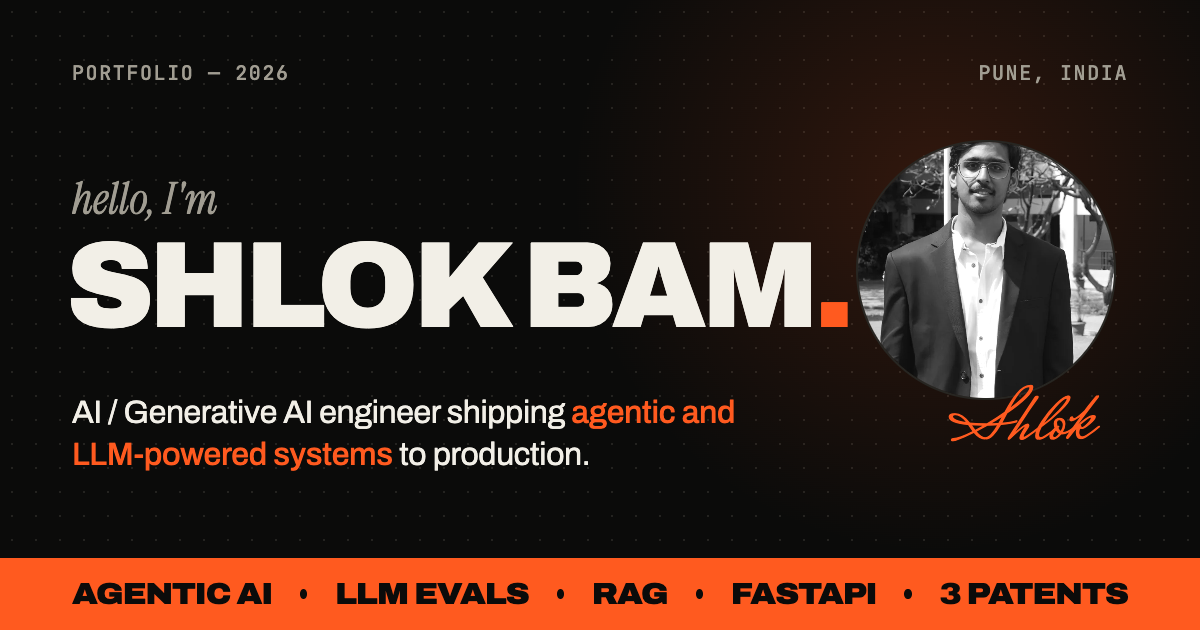
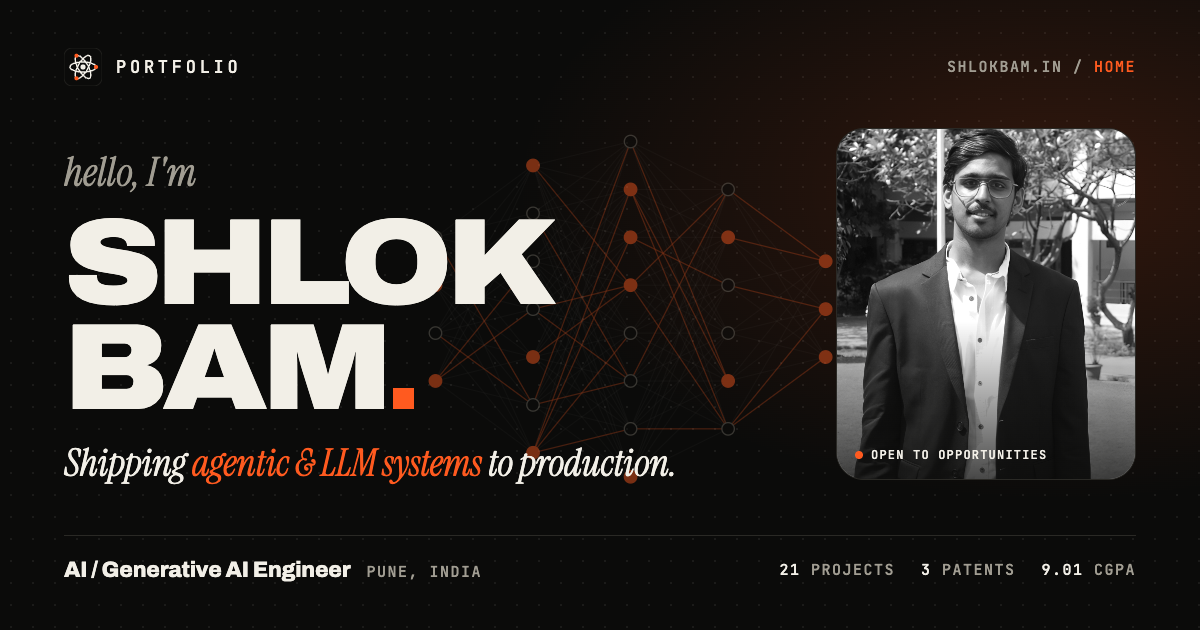
Refactor code structure for improved readability and maintainability

diff --git a/v2/frontend/src/seo.js b/v2/frontend/src/seo.js
@@ -148,7 +148,10 @@ const esc = (s) => String(s).replace(/&/g, '&amp;').replace(/"/g, '&quot;').repl
 export function headTags(pathname, site) {
   const meta = pageMeta(pathname)
   const url = site + (pathname === '/' ? '/' : pathname)
-  const img = site + '/og.png'
+  // each page has its own share card in public/og/ (1200×630)
+  const card = pathname === '/' ? 'home' : pathname.split('/').pop()
+  const img = site + '/og/' + (PAGES[pathname] ? card : 'home') + '.jpg'
+  const alt = pathname === '/' ? 'Shlok Bam — AI / Generative AI Engineer' : (meta.name || 'Shlok Bam') + ' — Shlok Bam, AI / Generative AI Engineer'
   const tags = [
     `<title>${esc(meta.title)}</title>`,
     `<meta name="description" content="${esc(meta.description)}" />`,
@@ -164,9 +167,11 @@ export function headTags(pathname, site) {
       `<meta property="og:title" content="${esc(meta.title)}" />`,
       `<meta property="og:description" content="${esc(meta.description)}" />`,
       `<meta property="og:image" content="${img}" />`,
+      `<meta property="og:image:secure_url" content="${img}" />`,
+      '<meta property="og:image:type" content="image/jpeg" />',
       '<meta property="og:image:width" content="1200" />',
       '<meta property="og:image:height" content="630" />',
-      '<meta property="og:image:alt" content="Shlok Bam — AI / Generative AI Engineer" />',
+      `<meta property="og:image:alt" content="${esc(alt)}" />`,
       ...(pathname === '/' ? ['<meta property="profile:first_name" content="Shlok" />', '<meta property="profile:last_name" content="Bam" />'] : []),
       '<meta name="twitter:card" content="summary_large_image" />',
       '<meta name="twitter:site" content="@shlok_bam" />',
@@ -174,6 +179,7 @@ export function headTags(pathname, site) {
       `<meta name="twitter:title" content="${esc(meta.title)}" />`,
       `<meta name="twitter:description" content="${esc(meta.description)}" />`,
       `<meta name="twitter:image" content="${img}" />`,
+      `<meta name="twitter:image:alt" content="${esc(alt)}" />`,
       `<script type="application/ld+json">${JSON.stringify(jsonLd(pathname, site)).replace(/</g, '\\u003c')}</script>`
     )
   }

diff --git a/v2/README.md b/v2/README.md
@@ -75,7 +75,8 @@ npm run dev        # http://localhost:5173
 - Every page is prerendered with its own `<title>`, description, canonical URL, Open Graph/Twitter
   tags and JSON-LD (Person, WebSite, ProfilePage/WebPage, breadcrumbs, the project list and the
   DailyDiff app). Titles and descriptions live in `src/seo.js`.
-- Share image: `public/og.png` (1200×630). Icons: `icon.svg`, `icon-192/512.png`, `apple-touch-icon.png`.
+- Share images: one 1200×630 card per page in `public/og/` (`home.jpg`, `work.jpg`, …), picked in `headTags()`
+  in `src/seo.js`; `public/og.png` is a copy of the home card. Icons: `icon.svg`, `icon-192/512.png`, `apple-touch-icon.png`.
 - Fonts are self-hosted from `public/fonts` (latin subset, SIL Open Font License).
 - After deploying: add the site in Google Search Console, verify it (DNS or HTML tag), submit
   `/sitemap.xml`, and use "Request indexing" on the home page. Link the site from LinkedIn, GitHub
